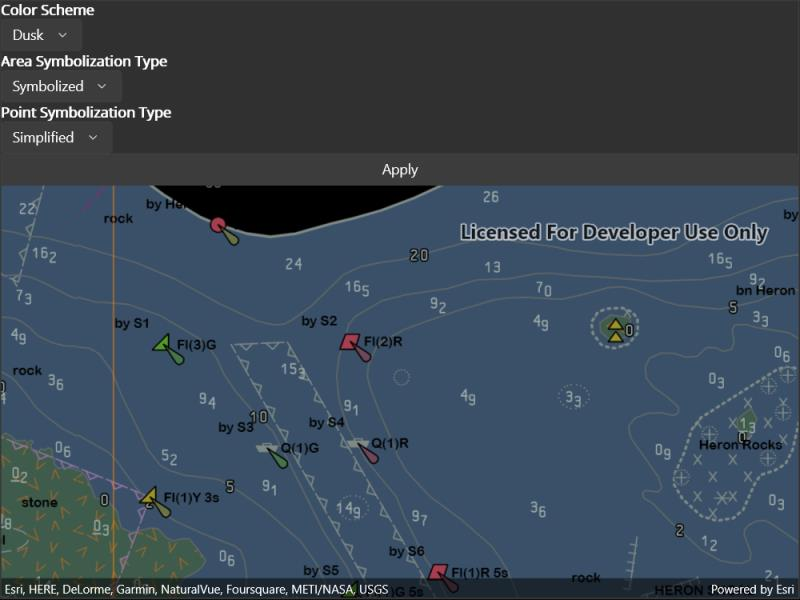
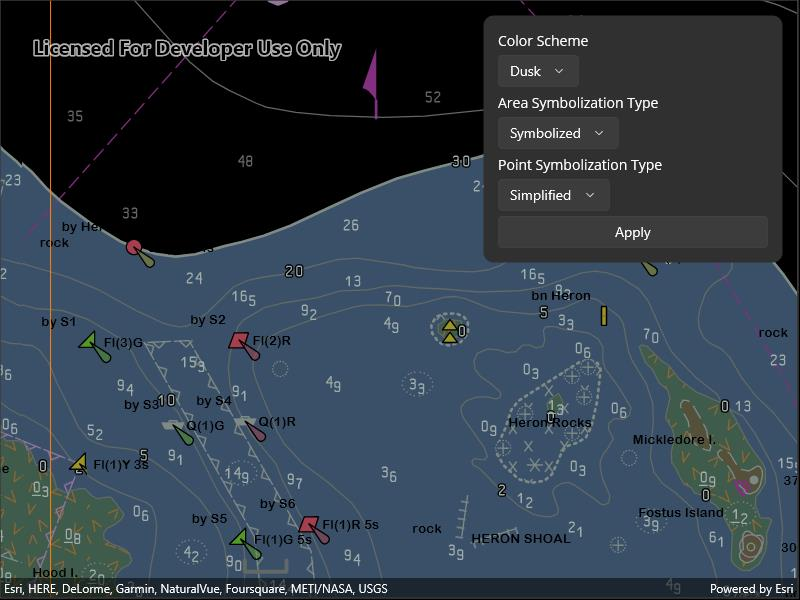
ENC Display settings MAUI UI (#1234)

diff --git a/src/MAUI/Maui.Samples/Samples/Hydrography/ChangeEncDisplaySettings/ChangeEncDisplaySettings.xaml b/src/MAUI/Maui.Samples/Samples/Hydrography/ChangeEncDisplaySettings/ChangeEncDisplaySettings.xaml
@@ -3,20 +3,18 @@
              xmlns="http://schemas.microsoft.com/dotnet/2021/maui"
              xmlns:x="http://schemas.microsoft.com/winfx/2009/xaml"
              xmlns:esriUI="clr-namespace:Esri.ArcGISRuntime.Maui;assembly=Esri.ArcGISRuntime.Maui">
-    <Grid>
-        <Grid.RowDefinitions>
-            <RowDefinition Height="auto" />
-            <RowDefinition Height="*" />
-        </Grid.RowDefinitions>
-        <StackLayout Grid.Row="0">
-            <Label FontAttributes="Bold">Color Scheme</Label>
-            <Picker x:Name="ColorSchemePicker" VerticalOptions="CenterAndExpand" />
-            <Label FontAttributes="Bold">Area Symbolization Type</Label>
-            <Picker x:Name="AreaPicker" VerticalOptions="CenterAndExpand" />
-            <Label FontAttributes="Bold">Point Symbolization Type</Label>
-            <Picker x:Name="PointPicker" VerticalOptions="CenterAndExpand" />
-            <Button Clicked="Button_Clicked" Text="Apply" />
-        </StackLayout>
-        <esriUI:MapView x:Name="MyMapView" Grid.Row="1" />
+    <Grid Style="{DynamicResource EsriSampleContainer}">
+        <esriUI:MapView x:Name="MyMapView" Style="{DynamicResource EsriSampleGeoView}" />
+        <Border Style="{DynamicResource EsriSampleControlPanel}">
+            <StackLayout Padding="5" Spacing="5">
+                <Label Text="Color Scheme" />
+                <Picker x:Name="ColorSchemePicker" VerticalOptions="CenterAndExpand" />
+                <Label Text="Area Symbolization Type" />
+                <Picker x:Name="AreaPicker" VerticalOptions="CenterAndExpand" />
+                <Label Text="Point Symbolization Type" />
+                <Picker x:Name="PointPicker" VerticalOptions="CenterAndExpand" />
+                <Button Clicked="Button_Clicked" Text="Apply" />
+            </StackLayout>
+        </Border>
     </Grid>
 </ContentPage>

diff --git a/src/WPF/WPF.Viewer/Samples/Hydrography/ChangeEncDisplaySettings/ChangeEncDisplaySettings.xaml.cs b/src/WPF/WPF.Viewer/Samples/Hydrography/ChangeEncDisplaySettings/ChangeEncDisplaySettings.xaml.cs
@@ -31,60 +31,60 @@ namespace ArcGIS.WPF.Samples.ChangeEncDisplaySettings
         {
             InitializeComponent();
 
-            // Create the UI, setup the control references and execute initialization
+            // Create the UI, setup the control references and execute initialization.
             _ = Initialize();
         }
 
         private async Task Initialize()
         {
-            // Apply initial display settings
+            // Apply initial display settings.
             UpdateDisplaySettings();
 
-            // Initialize the map with an oceans basemap
+            // Initialize the map with an oceans basemap.
             MyMapView.Map = new Map(BasemapStyle.ArcGISOceans);
 
-            // Get the path to the ENC Exchange Set
+            // Get the path to the ENC Exchange Set.
             string encPath = DataManager.GetDataFolder("9d2987a825c646468b3ce7512fb76e2d", "ExchangeSetwithoutUpdates", "ENC_ROOT",
                 "CATALOG.031");
 
-            // Create the Exchange Set
-            // Note: this constructor takes an array of paths because so that update sets can be loaded alongside base data
+            // Create the Exchange Set.
+            // Note: this constructor takes an array of paths because so that update sets can be loaded alongside base data.
             EncExchangeSet myEncExchangeSet = new EncExchangeSet(encPath);
 
             try
             {
-                // Wait for the exchange set to load
+                // Wait for the exchange set to load.
                 await myEncExchangeSet.LoadAsync();
 
-                // Store a list of data set extent's - will be used to zoom the mapview to the full extent of the Exchange Set
+                // Store a list of data set extent's - will be used to zoom the mapview to the full extent of the Exchange Set.
                 List<Envelope> dataSetExtents = new List<Envelope>();
 
-                // Add each data set as a layer
+                // Add each data set as a layer.
                 foreach (EncDataset myEncDataSet in myEncExchangeSet.Datasets)
                 {
-                    // Create the cell and layer
+                    // Create the cell and layer.
                     EncLayer myEncLayer = new EncLayer(new EncCell(myEncDataSet));
 
-                    // Add the layer to the map
+                    // Add the layer to the map.
                     MyMapView.Map.OperationalLayers.Add(myEncLayer);
 
-                    // Wait for the layer to load
+                    // Wait for the layer to load.
                     await myEncLayer.LoadAsync();
 
-                    // Add the extent to the list of extents
+                    // Add the extent to the list of extents.
                     dataSetExtents.Add(myEncLayer.FullExtent);
                 }
 
-                // Use the geometry engine to compute the full extent of the ENC Exchange Set
+                // Use the geometry engine to compute the full extent of the ENC Exchange Set.
                 Envelope fullExtent = dataSetExtents.CombineExtents();
 
-                // Set the viewpoint
+                // Set the viewpoint.
                 MyMapView.SetViewpoint(new Viewpoint(fullExtent));
 
-                // Subscribe to notifications about leaving so that settings can be re-set
+                // Subscribe to notifications about leaving so that settings can be re-set.
                 this.Unloaded += Sample_Unloaded;
 
-                // Enable changing the settings on user interaction
+                // Enable changing the settings on user interaction.
                 DayRadioButton.Checked += Setting_Checked;
                 NightRadioButton.Checked += Setting_Checked;
                 DuskRadioButton.Checked += Setting_Checked;
@@ -101,8 +101,8 @@ namespace ArcGIS.WPF.Samples.ChangeEncDisplaySettings
 
         private void Sample_Unloaded(object sender, RoutedEventArgs e)
         {
-            // ENC environment settings apply to the entire application
-            // They need to be reset after leaving the sample to avoid affecting other samples
+            // ENC environment settings apply to the entire application.
+            // They need to be reset after leaving the sample to avoid affecting other samples.
             EncEnvironmentSettings.Default.DisplaySettings.MarinerSettings.ResetToDefaults();
             EncEnvironmentSettings.Default.DisplaySettings.ViewingGroupSettings.ResetToDefaults();
             EncEnvironmentSettings.Default.DisplaySettings.TextGroupVisibilitySettings.ResetToDefaults();
@@ -110,22 +110,22 @@ namespace ArcGIS.WPF.Samples.ChangeEncDisplaySettings
 
         private void UpdateDisplaySettings()
         {
-            // Hold a reference to the application-wide ENC Display Settings
+            // Hold a reference to the application-wide ENC Display Settings.
             EncDisplaySettings globalDisplaySettings = EncEnvironmentSettings.Default.DisplaySettings;
 
-            // Hold a reference to the application-wide ENC Mariner Settings (part of display settings)
+            // Hold a reference to the application-wide ENC Mariner Settings (part of display settings).
             EncMarinerSettings globalMarinerSettings = globalDisplaySettings.MarinerSettings;
 
-            // Apply color scheme
+            // Apply color scheme.
             if (DayRadioButton.IsChecked == true) { globalMarinerSettings.ColorScheme = EncColorScheme.Day; }
             else if (DuskRadioButton.IsChecked == true) { globalMarinerSettings.ColorScheme = EncColorScheme.Dusk; }
             else if (NightRadioButton.IsChecked == true) { globalMarinerSettings.ColorScheme = EncColorScheme.Night; }
 
-            // Apply area symbolization
+            // Apply area symbolization.
             if (PlainAreaRadioButton.IsChecked == true) { globalMarinerSettings.AreaSymbolizationType = EncAreaSymbolizationType.Plain; }
             else { globalMarinerSettings.AreaSymbolizationType = EncAreaSymbolizationType.Symbolized; }
 
-            // Apply point symbolization
+            // Apply point symbolization.
             if (PaperchartRadioButton.IsChecked == true) { globalMarinerSettings.PointSymbolizationType = EncPointSymbolizationType.PaperChart; }
             else { globalMarinerSettings.PointSymbolizationType = EncPointSymbolizationType.Simplified; }
         }

diff --git a/src/WinUI/ArcGIS.WinUI.Viewer/Samples/Hydrography/ChangeEncDisplaySettings/ChangeEncDisplaySettings.xaml.cs b/src/WinUI/ArcGIS.WinUI.Viewer/Samples/Hydrography/ChangeEncDisplaySettings/ChangeEncDisplaySettings.xaml.cs
@@ -30,57 +30,57 @@ namespace ArcGIS.WinUI.Samples.ChangeEncDisplaySettings
         {
             InitializeComponent();
 
-            // Setup the control references and execute initialization
+            // Setup the control references and execute initialization.
             _ = Initialize();
         }
 
         private async Task Initialize()
         {
-            // Apply initial display settings
+            // Apply initial display settings.
             UpdateDisplaySettings();
 
-            // Initialize the map with an oceans basemap
+            // Initialize the map with an oceans basemap.
             MyMapView.Map = new Map(BasemapStyle.ArcGISOceans);
 
-            // Get the path to the ENC Exchange Set
+            // Get the path to the ENC Exchange Set.
             string encPath = DataManager.GetDataFolder("9d2987a825c646468b3ce7512fb76e2d", "ExchangeSetwithoutUpdates", "ENC_ROOT",
                 "CATALOG.031");
 
-            // Create the Exchange Set
-            // Note: this constructor takes an array of paths because so that update sets can be loaded alongside base data
+            // Create the Exchange Set.
+            // Note: this constructor takes an array of paths because so that update sets can be loaded alongside base data.
             EncExchangeSet myEncExchangeSet = new EncExchangeSet(new string[] { encPath });
 
             try
             {
-                // Wait for the exchange set to load
+                // Wait for the exchange set to load.
                 await myEncExchangeSet.LoadAsync();
 
-                // Store a list of data set extent's - will be used to zoom the mapview to the full extent of the Exchange Set
+                // Store a list of data set extent's - will be used to zoom the mapview to the full extent of the Exchange Set.
                 List<Envelope> dataSetExtents = new List<Envelope>();
 
-                // Add each data set as a layer
+                // Add each data set as a layer.
                 foreach (EncDataset myEncDataSet in myEncExchangeSet.Datasets)
                 {
-                    // Create the cell and layer
+                    // Create the cell and layer.
                     EncLayer myEncLayer = new EncLayer(new EncCell(myEncDataSet));
 
-                    // Add the layer to the map
+                    // Add the layer to the map.
                     MyMapView.Map.OperationalLayers.Add(myEncLayer);
 
-                    // Wait for the layer to load
+                    // Wait for the layer to load.
                     await myEncLayer.LoadAsync();
 
-                    // Add the extent to the list of extents
+                    // Add the extent to the list of extents.
                     dataSetExtents.Add(myEncLayer.FullExtent);
                 }
 
-                // Use the geometry engine to compute the full extent of the ENC Exchange Set
+                // Use the geometry engine to compute the full extent of the ENC Exchange Set.
                 Envelope fullExtent = dataSetExtents.CombineExtents();
 
-                // Set the viewpoint
+                // Set the viewpoint.
                 MyMapView.SetViewpoint(new Viewpoint(fullExtent));
 
-                // Subscribe to notifications about leaving so that settings can be re-set
+                // Subscribe to notifications about leaving so that settings can be re-set.
                 this.Unloaded += SampleUnloaded;
 
                 // Enable the setting change UI.
@@ -100,8 +100,8 @@ namespace ArcGIS.WinUI.Samples.ChangeEncDisplaySettings
 
         private void SampleUnloaded(object sender, Microsoft.UI.Xaml.RoutedEventArgs e)
         {
-            // ENC environment settings apply to the entire application
-            // They need to be reset after leaving the sample to avoid affecting other samples
+            // ENC environment settings apply to the entire application.
+            // They need to be reset after leaving the sample to avoid affecting other samples.
             EncEnvironmentSettings.Default.DisplaySettings.MarinerSettings.ResetToDefaults();
             EncEnvironmentSettings.Default.DisplaySettings.ViewingGroupSettings.ResetToDefaults();
             EncEnvironmentSettings.Default.DisplaySettings.TextGroupVisibilitySettings.ResetToDefaults();
@@ -109,29 +109,29 @@ namespace ArcGIS.WinUI.Samples.ChangeEncDisplaySettings
 
         private void UpdateDisplaySettings()
         {
-            // Hold a reference to the application-wide ENC Display Settings
+            // Hold a reference to the application-wide ENC Display Settings.
             EncDisplaySettings globalDisplaySettings = EncEnvironmentSettings.Default.DisplaySettings;
 
-            // Hold a reference to the application-wide ENC Mariner Settings (part of display settings)
+            // Hold a reference to the application-wide ENC Mariner Settings (part of display settings).
             EncMarinerSettings globalMarinerSettings = globalDisplaySettings.MarinerSettings;
 
-            // Apply color scheme
+            // Apply color scheme.
             if (DayRadioButton.IsChecked == true) { globalMarinerSettings.ColorScheme = EncColorScheme.Day; }
             else if (DuskRadioButton.IsChecked == true) { globalMarinerSettings.ColorScheme = EncColorScheme.Dusk; }
             else if (NightRadioButton.IsChecked == true) { globalMarinerSettings.ColorScheme = EncColorScheme.Night; }
 
-            // Apply area symbolization
+            // Apply area symbolization.
             if (PlainAreaRadioButton.IsChecked == true) { globalMarinerSettings.AreaSymbolizationType = EncAreaSymbolizationType.Plain; }
             else { globalMarinerSettings.AreaSymbolizationType = EncAreaSymbolizationType.Symbolized; }
 
-            // Apply point symbolization
+            // Apply point symbolization.
             if (PaperPointRadioButton.IsChecked == true) { globalMarinerSettings.PointSymbolizationType = EncPointSymbolizationType.PaperChart; }
             else { globalMarinerSettings.PointSymbolizationType = EncPointSymbolizationType.Simplified; }
         }
 
         private void Setting_Checked(object sender, Microsoft.UI.Xaml.RoutedEventArgs e)
         {
-            // Apply display settings
+            // Apply display settings.
             UpdateDisplaySettings();
         }
     }

diff --git a/src/MAUI/Maui.Samples/Samples/Hydrography/ChangeEncDisplaySettings/ChangeEncDisplaySettings.xaml.cs b/src/MAUI/Maui.Samples/Samples/Hydrography/ChangeEncDisplaySettings/ChangeEncDisplaySettings.xaml.cs
@@ -27,61 +27,61 @@ namespace ArcGIS.Samples.ChangeEncDisplaySettings
         {
             InitializeComponent();
 
-            // Create the UI, setup the control references and execute initialization
+            // Create the UI, setup the control references and execute initialization.
             _ = Initialize();
         }
 
         private async Task Initialize()
         {
-            // Add display options to UI
+            // Add display options to UI.
             ColorSchemePicker.ItemsSource = new List<String>() { "Day", "Dusk", "Night" };
             AreaPicker.ItemsSource = new List<String>() { "Plain", "Symbolized" };
             PointPicker.ItemsSource = new List<String>() { "Paper Chart", "Simplified" };
 
-            // Provide initial selection
+            // Provide initial selection.
             ColorSchemePicker.SelectedIndex = 0; AreaPicker.SelectedIndex = 0; PointPicker.SelectedIndex = 0;
 
-            // Apply initial display settings
+            // Apply initial display settings.
             UpdateDisplaySettings();
 
-            // Initialize the map with an oceans basemap
+            // Initialize the map with an oceans basemap.
             MyMapView.Map = new Map(BasemapStyle.ArcGISOceans);
 
-            // Get the path to the ENC Exchange Set
+            // Get the path to the ENC Exchange Set.
             string encPath = DataManager.GetDataFolder("9d2987a825c646468b3ce7512fb76e2d", "ExchangeSetwithoutUpdates", "ENC_ROOT",
                 "CATALOG.031");
 
-            // Create the Exchange Set
-            // Note: this constructor takes an array of paths because so that update sets can be loaded alongside base data
+            // Create the Exchange Set.
+            // Note: this constructor takes an array of paths because so that update sets can be loaded alongside base data.
             EncExchangeSet myEncExchangeSet = new EncExchangeSet(new string[] { encPath });
 
             try
             {
-                // Wait for the exchange set to load
+                // Wait for the exchange set to load.
                 await myEncExchangeSet.LoadAsync();
 
-                // Store a list of data set extent's - will be used to zoom the mapview to the full extent of the Exchange Set
+                // Store a list of data set extent's - will be used to zoom the mapview to the full extent of the Exchange Set.
                 List<Envelope> dataSetExtents = new List<Envelope>();
 
-                // Add each data set as a layer
+                // Add each data set as a layer.
                 foreach (EncDataset myEncDataSet in myEncExchangeSet.Datasets)
                 {
                     EncLayer myEncLayer = new EncLayer(new EncCell(myEncDataSet));
 
-                    // Add the layer to the map
+                    // Add the layer to the map.
                     MyMapView.Map.OperationalLayers.Add(myEncLayer);
 
-                    // Wait for the layer to load
+                    // Wait for the layer to load.
                     await myEncLayer.LoadAsync();
 
-                    // Add the extent to the list of extents
+                    // Add the extent to the list of extents.
                     dataSetExtents.Add(myEncLayer.FullExtent);
                 }
 
-                // Use the geometry engine to compute the full extent of the ENC Exchange Set
+                // Use the geometry engine to compute the full extent of the ENC Exchange Set.
                 Envelope fullExtent = dataSetExtents.CombineExtents();
 
-                // Set the viewpoint
+                // Set the viewpoint.
                 await MyMapView.SetViewpointAsync(new Viewpoint(fullExtent));
             }
             catch (Exception e)
@@ -92,13 +92,13 @@ namespace ArcGIS.Samples.ChangeEncDisplaySettings
 
         private void UpdateDisplaySettings()
         {
-            // Hold a reference to the application-wide ENC Display Settings
+            // Hold a reference to the application-wide ENC Display Settings.
             EncDisplaySettings globalDisplaySettings = EncEnvironmentSettings.Default.DisplaySettings;
 
-            // Hold a reference to the application-wide ENC Mariner Settings (part of display settings)
+            // Hold a reference to the application-wide ENC Mariner Settings (part of display settings).
             EncMarinerSettings globalMarinerSettings = globalDisplaySettings.MarinerSettings;
 
-            // Apply color scheme
+            // Apply color scheme.
             string selectedTheme = ColorSchemePicker.SelectedItem.ToString();
             switch (selectedTheme)
             {
@@ -115,11 +115,11 @@ namespace ArcGIS.Samples.ChangeEncDisplaySettings
                     break;
             }
 
-            // Apply area symbolization
+            // Apply area symbolization.
             string selectedAreaType = AreaPicker.SelectedItem.ToString();
             globalMarinerSettings.AreaSymbolizationType = selectedAreaType == "Plain" ? EncAreaSymbolizationType.Plain : EncAreaSymbolizationType.Symbolized;
 
-            // Apply point symbolization
+            // Apply point symbolization.
             string selectedPointType = PointPicker.SelectedItem.ToString();
             globalMarinerSettings.PointSymbolizationType = selectedPointType == "Paper Chart" ? EncPointSymbolizationType.PaperChart : EncPointSymbolizationType.Simplified;
         }
@@ -131,8 +131,8 @@ namespace ArcGIS.Samples.ChangeEncDisplaySettings
 
         public void Dispose()
         {
-            // ENC environment settings apply to the entire application
-            // They need to be reset after leaving the sample to avoid affecting other samples
+            // ENC environment settings apply to the entire application.
+            // They need to be reset after leaving the sample to avoid affecting other samples.
             EncEnvironmentSettings.Default.DisplaySettings.MarinerSettings.ResetToDefaults();
             EncEnvironmentSettings.Default.DisplaySettings.ViewingGroupSettings.ResetToDefaults();
             EncEnvironmentSettings.Default.DisplaySettings.TextGroupVisibilitySettings.ResetToDefaults();
